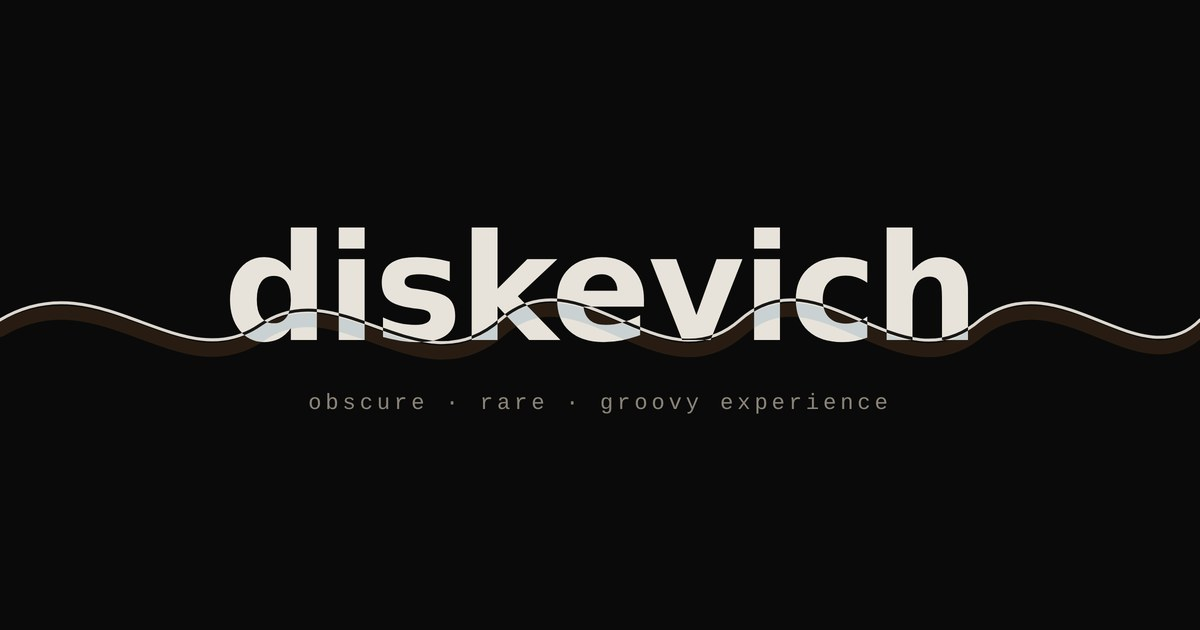
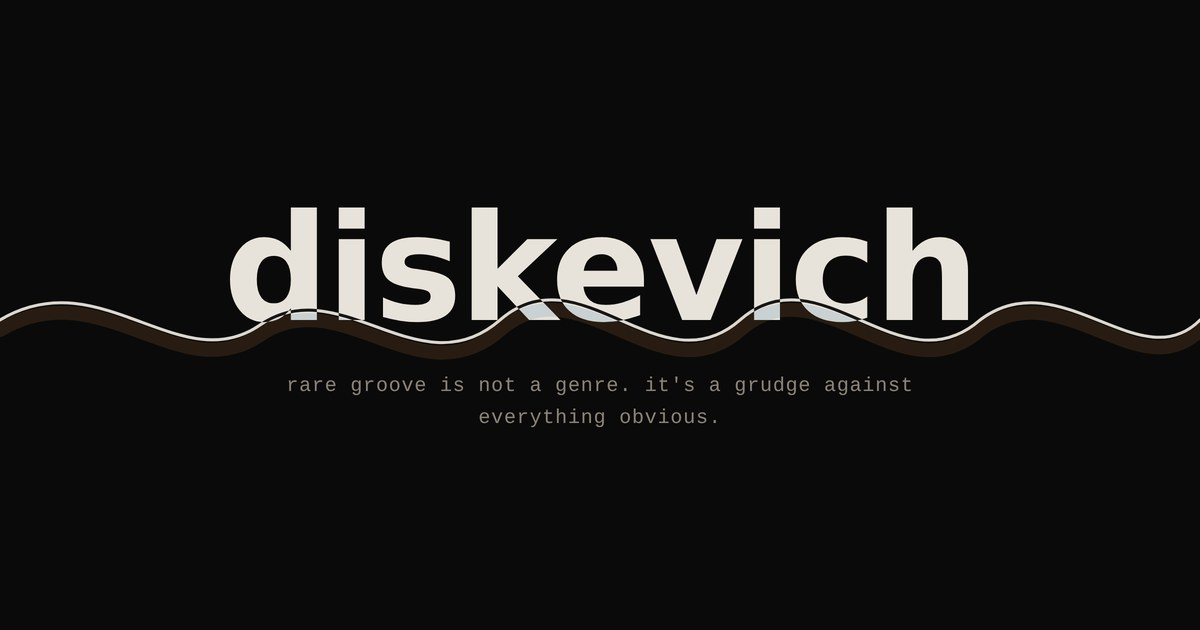
Update tagline to 'rare groove is not a genre...'
Replaced the tagline 'obscure · rare · groovy experience' with 'rare
groove is not a genre. It's a grudge against everything obvious.'
Updated meta description, og:description, and twitter:description to
match (they quoted the old tagline verbatim), and regenerated
og-image.jpg from the source template — the old tagline was baked
into that image too, at a letter-spacing/width tuned for the old
3-word line; widened its layout (max-width + wrap + tighter letter-
spacing) so the new, much longer line reads cleanly on two lines
instead of overflowing the 1200px card.

Checked live on the actual site, not just the template: no horizontal
scroll and clean wrapping at 1440/768/375/320px — the longer text
wraps to two lines on narrow viewports without breaking layout.

diff --git a/index.html b/index.html
@@ -4,7 +4,7 @@
   <meta charset="UTF-8" />
   <meta name="viewport" content="width=device-width, initial-scale=1, viewport-fit=cover" />
   <title>diskevich</title>
-  <meta name="description" content="diskevich — obscure, rare, groovy experience. Where the unfamiliar becomes physical." />
+  <meta name="description" content="diskevich — rare groove is not a genre. It's a grudge against everything obvious. Where the unfamiliar becomes physical." />
 
   <!-- Inline SVG favicon: same wave motif as the site itself, zero extra
        request, and it still reads clearly at 16px (checked). -->
@@ -18,13 +18,13 @@
   <meta property="og:type" content="website" />
   <meta property="og:site_name" content="diskevich" />
   <meta property="og:title" content="diskevich" />
-  <meta property="og:description" content="obscure, rare, groovy experience — where the unfamiliar becomes physical." />
+  <meta property="og:description" content="rare groove is not a genre. It's a grudge against everything obvious — where the unfamiliar becomes physical." />
   <meta property="og:image" content="og-image.jpg" />
   <meta property="og:image:width" content="1200" />
   <meta property="og:image:height" content="630" />
   <meta name="twitter:card" content="summary_large_image" />
   <meta name="twitter:title" content="diskevich" />
-  <meta name="twitter:description" content="obscure, rare, groovy experience." />
+  <meta name="twitter:description" content="rare groove is not a genre. It's a grudge against everything obvious." />
   <meta name="twitter:image" content="og-image.jpg" />
 
   <!-- Single external request: display typeface, swap so first paint never blocks on it -->
@@ -63,7 +63,7 @@
   <main class="scene">
     <header class="mark">
       <h1 class="artist-name">diskevich</h1>
-      <p class="tagline">obscure &middot; rare &middot; groovy experience</p>
+      <p class="tagline">rare groove is not a genre. It's a grudge against everything obvious.</p>
     </header>
 
     <nav class="site-nav" aria-label="Site sections">
